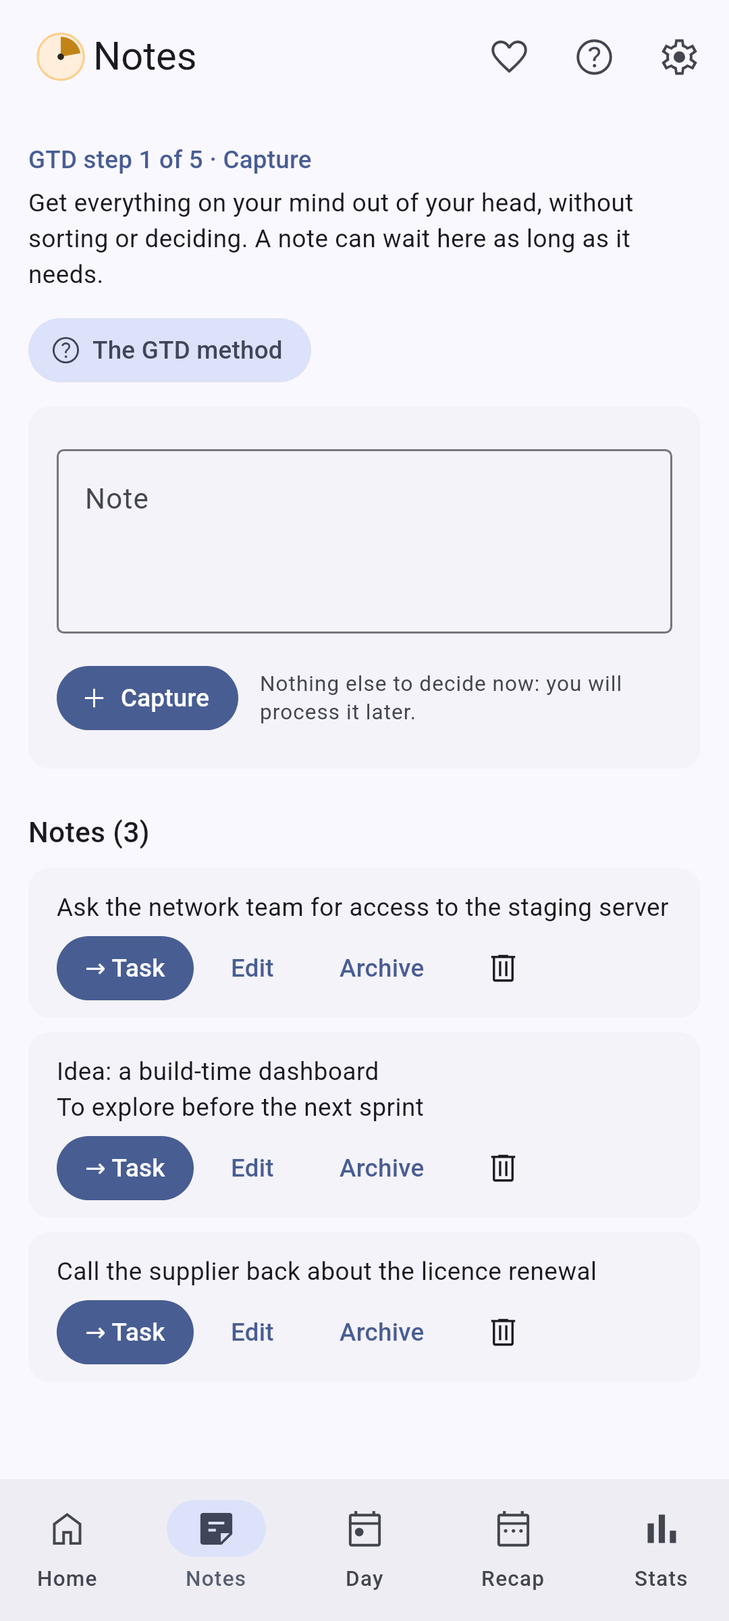
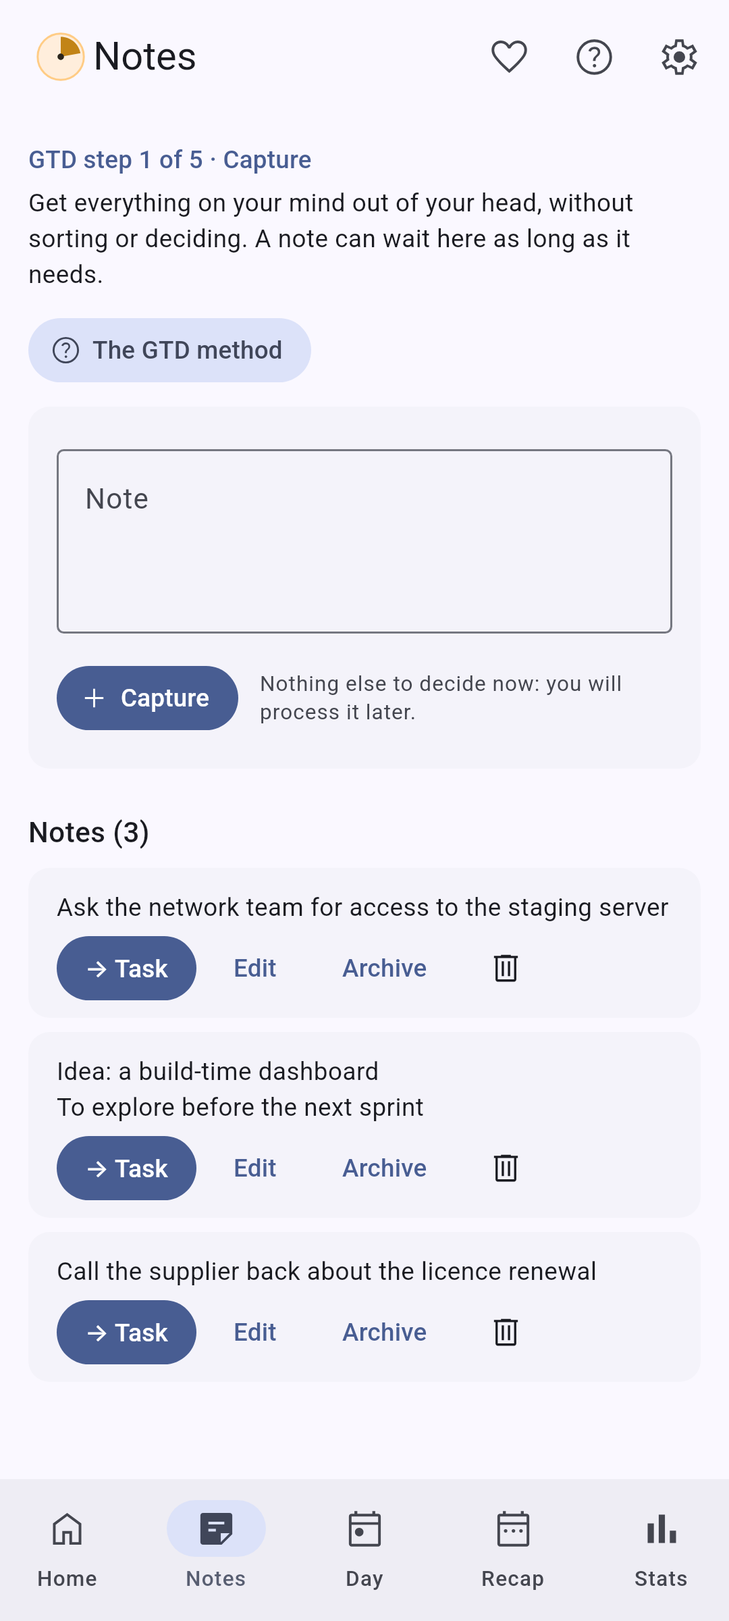
feat(store): store screenshots in six languages with public holidays [#264]
The store screenshots are now rendered in the six languages of the
listings, with the demo data translated, and gain an eleventh shot:
May 2026 for Germany, the United States and Italy, each grid in its own
language, under the title in the listing's language. That shot renders
at density 2.0 so the three month grids fit the phone height.

diff --git a/kmp/desktopApp/src/jvmMain/kotlin/com/skohscripts/kairos/desktop/StoreScreenshots.kt b/kmp/desktopApp/src/jvmMain/kotlin/com/skohscripts/kairos/desktop/StoreScreenshots.kt
@@ -27,6 +27,8 @@ import com.skohscripts.kairos.ui.app.AppServices
 import com.skohscripts.kairos.ui.app.ChronoNotifier
 import com.skohscripts.kairos.ui.app.FileService
 import com.skohscripts.kairos.ui.app.NotifyState
+import com.skohscripts.kairos.ui.month.HolidayShowcase
+import com.skohscripts.kairos.ui.theme.KairosTheme
 import com.skohscripts.kairos.ui.navigation.Destination
 import com.skohscripts.kairos.ui.navigation.Secondary
 import com.skohscripts.kairos.ui.navigation.TeamDestination
@@ -53,11 +55,11 @@ import kotlin.time.Instant
 /**
  * Captures des fiches de magasin (docs/spec/publication.md § Captures) :
  * `--store-screenshots=<dossier fastlane/metadata/android>` rend hors écran,
- * en français et en anglais, l'interface **Android** en largeur téléphone
+ * dans les six langues des fiches, l'interface **Android** en largeur téléphone
  * (1080 × 2400 px, densité 2,625) sur un jeu de données réaliste, et écrit
- * `<langue>/images/phoneScreenshots/1.png` à `10.png` (1 à 6 : espace Perso, base solo, dont la 2 : la fiche d'une tâche
+ * `<langue>/images/phoneScreenshots/1.png` à `11.png` (1 à 6 : espace Perso, base solo, dont la 2 : la fiche d'une tâche
  * estimée par machine learning ; 7 à 9 : espace Équipe, seconde base de [StoreTeam] ; 10 : la vue Jour en thème sombre,
- * issue #72). Thème du système imposé (clair, sombre pour la 10) : les captures ne dépendent pas de la machine. Rien de ce jeu n'est livré dans
+ * issue #72 ; 11 : les jours fériés de trois pays, [HolidayShowcase], issue #264). Thème du système imposé (clair, sombre pour la 10) : les captures ne dépendent pas de la machine. Rien de ce jeu n'est livré dans
  * l'application : c'est une vitrine, pas des exemples.
  */
 object StoreScreenshots {
@@ -78,7 +80,7 @@ object StoreScreenshots {
     fun run(metadataDir: File): Int = try {
         // Heure et fuseau figés : les captures ne dépendent ni du jour ni de la machine.
         java.util.TimeZone.setDefault(java.util.TimeZone.getTimeZone("UTC"))
-        for ((folder, locale) in listOf("fr-FR" to Locale.FRANCE, "en-US" to Locale.US)) {
+        for ((folder, locale) in LOCALES) {
             Locale.setDefault(locale)
             val out = File(metadataDir, "$folder/images/phoneScreenshots").apply { mkdirs() }
             var number = 0
@@ -105,6 +107,9 @@ object StoreScreenshots {
             // Capture 10 : la vue Jour de la capture 1, système en sombre, rien de réglé (docs/spec/apparence.md § Thème sombre).
             val darkServices = runBlocking { services(locale.language) }
             write(render { KairosApp(Platform.ANDROID, Destination.DAY, systemDark = true) { darkServices } })
+            // Capture 11 : les fériés de trois pays, chacun dans sa langue, titre dans celle de la fiche (issue #264). Densité
+            // 2,0 (540 × 1200 dp) : trois grilles de mois tiennent dans la hauteur, l'image garde 1080 × 2400 px.
+            write(render(density = 2.0f) { KairosTheme { HolidayShowcase(HOLIDAY_MONTH, HOLIDAY_COUNTRIES) } })
         }
         println("Captures des magasins écrites dans $metadataDir")
         0
@@ -140,7 +145,7 @@ object StoreScreenshots {
      */
     private fun machineLearningShot(language: String): ByteArray {
         val services = runBlocking { services(language, machineLearning = true) }
-        val title = (if (language == "fr") FR else EN).quarterly
+        val title = words(language).quarterly
         val id = services.repository.snapshot.value.tasks.first { it.title == title }.id
         return render(settle = true, wheel = SHEET_SCROLL) { KairosApp(Platform.ANDROID, Destination.DAY, systemDark = false, showcaseTaskId = id) { services } }
     }
@@ -171,7 +176,7 @@ object StoreScreenshots {
      * avec l'empreinte des données qui l'ont produite, elle ne s'affiche pas « périmée ».
      */
     private suspend fun teamServices(language: String, destination: TeamDestination): AppServices {
-        val services = StoreTeam.open(language == "en", today, now)
+        val services = StoreTeam.open(language, today, now)
         if (destination == TeamDestination.FORECAST) {
             services.teamUi.forecast = ForecastRun.computeNow(
                 services.repository.snapshot.value, now, TimeZone.UTC, ForecastSpec(ForecastScope.Assigned), StoreTeam.FORECAST_SEED,
@@ -181,8 +186,8 @@ object StoreScreenshots {
     }
 
     @OptIn(androidx.compose.ui.ExperimentalComposeUiApi::class)
-    private fun render(settle: Boolean = false, wheel: Float = 0f, content: @Composable () -> Unit): ByteArray {
-        val scene = ImageComposeScene(WIDTH, HEIGHT, Density(2.625f), content = content)
+    private fun render(settle: Boolean = false, wheel: Float = 0f, density: Float = 2.625f, content: @Composable () -> Unit): ByteArray {
+        val scene = ImageComposeScene(WIDTH, HEIGHT, Density(density), content = content)
         try {
             var image = scene.render(0)
             for (frame in 1..12) image = scene.render(frame * 100_000_000L)
@@ -222,6 +227,25 @@ object StoreScreenshots {
 
     /** Défilement (en crans de molette) de la capture de la page « histoire » : la liste ordonnée sous la carte « maintenant ». */
     private const val STORY_SCROLL = 21f
+
+    /** Les six langues des fiches (dossier Fastlane, langue de l'interface), dans l'ordre d'écriture. */
+    private val LOCALES = listOf(
+        "fr-FR" to Locale.FRANCE, "en-US" to Locale.US, "de-DE" to Locale.GERMANY,
+        "es-ES" to Locale.forLanguageTag("es-ES"), "it-IT" to Locale.ITALY, "ru-RU" to Locale.forLanguageTag("ru-RU"),
+    )
+
+    /** Capture 11 : mai 2026, où l'Allemagne (1er, Ascension, Pentecôte), les États-Unis (Memorial Day) et l'Italie (1er) diffèrent. */
+    private val HOLIDAY_MONTH = LocalDate(2026, 5, 1)
+    private val HOLIDAY_COUNTRIES = listOf("DE" to "de", "US" to "en", "IT" to "it")
+
+    private fun words(language: String): Words = when (language) {
+        "fr" -> FR
+        "de" -> DE
+        "es" -> ES
+        "it" -> IT
+        "ru" -> RU
+        else -> EN
+    }
 
     /** Textes du jeu de données, par langue. */
     private class Words(
@@ -287,8 +311,123 @@ object StoreScreenshots {
         quarterly = "Write the quarterly activity report",
     )
 
+
+    private fun typed(types: String) = types.split(',')
+
+    private val DE = typed(Settings.DEFAULT_TASK_TYPES_DE).let { t ->
+        Words(
+            types = Settings.DEFAULT_TASK_TYPES_DE,
+            dev = t[0], review = t[1], meeting = t[2], doc = t[3], admin = t[4],
+            leak = "Speicherleck im Dashboard beheben", demo = "Kundendemo vorbereiten",
+            mr = "Merge-Request des Zahlungsmoduls prüfen", standup = "Team-Stand-up",
+            install = "Installationsanleitung aktualisieren", survey = "Sicherheitsfragebogen beantworten",
+            deploy = "Version 2.4 ausrollen", report = "Protokoll des Lenkungsausschusses versenden",
+            project = "Atlas", focus = "Deep Work", lunch = "Mittagessen", sync = "Abstimmungstermin",
+            notes = listOf(
+                "Netzwerkteam um Zugriff auf den Staging-Server bitten",
+                "Idee: ein Dashboard der Build-Zeiten\nVor dem nächsten Sprint prüfen",
+                "Lieferanten wegen der Lizenzverlängerung zurückrufen",
+            ),
+            history = listOf(
+                "Fehlerprotokolle analysieren", "Abhängigkeiten aktualisieren", "Tests für das Exportmodul schreiben",
+                "Architektur-Review", "Retrospektive vorbereiten", "Backlog aufräumen", "Mobile Darstellung korrigieren",
+                "Release Notes schreiben", "Monitoring einrichten", "Neue Kollegin einarbeiten",
+            ),
+            reports = listOf(
+                "Tätigkeitsbericht für Mai schreiben", "Tätigkeitsbericht für Juni schreiben", "Tätigkeitsbericht für Juli schreiben",
+                "Tätigkeitsbericht für August schreiben", "Tätigkeitsbericht für September schreiben", "Bericht zum Zugriffsaudit schreiben",
+                "Bericht zu den Lasttests schreiben", "Bericht zum Produktionsvorfall schreiben",
+            ),
+            quarterly = "Tätigkeitsbericht für das Quartal schreiben",
+        )
+    }
+
+    private val ES = typed(Settings.DEFAULT_TASK_TYPES_ES).let { t ->
+        Words(
+            types = Settings.DEFAULT_TASK_TYPES_ES,
+            dev = t[0], review = t[1], meeting = t[2], doc = t[3], admin = t[4],
+            leak = "Corregir la fuga de memoria del panel", demo = "Preparar la demo para el cliente",
+            mr = "Revisar la merge request del módulo de pagos", standup = "Reunión diaria del equipo",
+            install = "Actualizar la guía de instalación", survey = "Responder al cuestionario de seguridad",
+            deploy = "Desplegar la versión 2.4", report = "Enviar el acta del comité de dirección",
+            project = "Atlas", focus = "Deep work", lunch = "Comida", sync = "Reunión de seguimiento",
+            notes = listOf(
+                "Pedir al equipo de redes acceso al servidor de preproducción",
+                "Idea: un panel de tiempos de compilación\nA estudiar antes del próximo sprint",
+                "Llamar al proveedor por la renovación de licencias",
+            ),
+            history = listOf(
+                "Analizar los registros de errores", "Actualizar las dependencias", "Escribir las pruebas del módulo de exportación",
+                "Revisión de la arquitectura", "Preparar la retrospectiva", "Limpiar el backlog", "Corregir la vista móvil",
+                "Redactar las notas de la versión", "Configurar la monitorización", "Formar a la nueva incorporación",
+            ),
+            reports = listOf(
+                "Redactar el informe de actividad de mayo", "Redactar el informe de actividad de junio", "Redactar el informe de actividad de julio",
+                "Redactar el informe de actividad de agosto", "Redactar el informe de actividad de septiembre", "Redactar el informe de auditoría de accesos",
+                "Redactar el informe de pruebas de carga", "Redactar el informe del incidente en producción",
+            ),
+            quarterly = "Redactar el informe de actividad del trimestre",
+        )
+    }
+
+    private val IT = typed(Settings.DEFAULT_TASK_TYPES_IT).let { t ->
+        Words(
+            types = Settings.DEFAULT_TASK_TYPES_IT,
+            dev = t[0], review = t[1], meeting = t[2], doc = t[3], admin = t[4],
+            leak = "Correggere la perdita di memoria della dashboard", demo = "Preparare la demo per il cliente",
+            mr = "Rivedere la merge request del modulo pagamenti", standup = "Stand-up del team",
+            install = "Aggiornare la guida di installazione", survey = "Rispondere al questionario di sicurezza",
+            deploy = "Rilasciare la versione 2.4", report = "Inviare il verbale del comitato direttivo",
+            project = "Atlas", focus = "Deep work", lunch = "Pranzo", sync = "Riunione di avanzamento",
+            notes = listOf(
+                "Chiedere al team di rete l’accesso al server di preproduzione",
+                "Idea: una dashboard dei tempi di build\nDa approfondire prima del prossimo sprint",
+                "Richiamare il fornitore per il rinnovo delle licenze",
+            ),
+            history = listOf(
+                "Analizzare i log degli errori", "Aggiornare le dipendenze", "Scrivere i test del modulo di esportazione",
+                "Revisione dell’architettura", "Preparare la retrospettiva", "Ripulire il backlog", "Correggere la vista mobile",
+                "Scrivere le note di rilascio", "Configurare il monitoraggio", "Formare il nuovo arrivato",
+            ),
+            reports = listOf(
+                "Scrivere il rapporto di attività di maggio", "Scrivere il rapporto di attività di giugno", "Scrivere il rapporto di attività di luglio",
+                "Scrivere il rapporto di attività di agosto", "Scrivere il rapporto di attività di settembre", "Scrivere il rapporto di audit degli accessi",
+                "Scrivere il rapporto dei test di carico", "Scrivere il rapporto sull’incidente in produzione",
+            ),
+            quarterly = "Scrivere il rapporto di attività del trimestre",
+        )
+    }
+
+    private val RU = typed(Settings.DEFAULT_TASK_TYPES_RU).let { t ->
+        Words(
+            types = Settings.DEFAULT_TASK_TYPES_RU,
+            dev = t[0], review = t[1], meeting = t[2], doc = t[3], admin = t[4],
+            leak = "Исправить утечку памяти в дашборде", demo = "Подготовить демо для клиента",
+            mr = "Проверить merge request модуля платежей", standup = "Стендап команды",
+            install = "Обновить руководство по установке", survey = "Ответить на анкету по безопасности",
+            deploy = "Развернуть версию 2.4", report = "Отправить протокол управляющего комитета",
+            project = "Atlas", focus = "Deep work", lunch = "Обед", sync = "Встреча по статусу",
+            notes = listOf(
+                "Попросить сетевую команду о доступе к тестовому серверу",
+                "Идея: дашборд времени сборки\nИзучить до следующего спринта",
+                "Перезвонить поставщику насчёт продления лицензий",
+            ),
+            history = listOf(
+                "Проанализировать журналы ошибок", "Обновить зависимости", "Написать тесты модуля экспорта",
+                "Ревью архитектуры", "Подготовить ретроспективу", "Почистить бэклог", "Исправить мобильную вёрстку",
+                "Написать примечания к выпуску", "Настроить мониторинг", "Ввести в курс нового сотрудника",
+            ),
+            reports = listOf(
+                "Написать отчёт о работе за май", "Написать отчёт о работе за июнь", "Написать отчёт о работе за июль",
+                "Написать отчёт о работе за август", "Написать отчёт о работе за сентябрь", "Написать отчёт об аудите доступа",
+                "Написать отчёт о нагрузочном тестировании", "Написать отчёт об инциденте в продакшене",
+            ),
+            quarterly = "Написать отчёт о работе за квартал",
+        )
+    }
+
     private fun snapshot(language: String, machineLearning: Boolean = false): KairosSnapshot {
-        val w = if (language == "fr") FR else EN
+        val w = words(language)
         fun at(day: LocalDate, h: Int, m: Int = 0) = LocalDateTime(day, LocalTime(h, m))
         fun instant(day: LocalDate, h: Int, m: Int = 0) = at(day, h, m).toInstant(TimeZone.UTC)
         val created = instant(today.minus(DatePeriod(days = 3)), 9)

diff --git a/kmp/desktopApp/src/jvmMain/kotlin/com/skohscripts/kairos/desktop/StoreTeam.kt b/kmp/desktopApp/src/jvmMain/kotlin/com/skohscripts/kairos/desktop/StoreTeam.kt
@@ -43,10 +43,58 @@ internal object StoreTeam {
         override fun now(): Instant = current
     }
 
-    /** Titres dans la langue de la capture. */
-    private class Words(val english: Boolean) {
-        fun t(fr: String, en: String) = if (english) en else fr
+    /**
+     * Titres dans la langue de la capture : le français et l'anglais à l'appel, l'allemand, l'espagnol, l'italien et le russe
+     * dans [OTHER], par le texte français. Un titre sans traduction fait échouer la génération plutôt que d'en mêler deux.
+     */
+    private class Words(val language: String) {
+        fun t(fr: String, en: String): String = when (language) {
+            "fr" -> fr
+            "en" -> en
+            else -> OTHER[fr]?.get(OTHER_LANGUAGES.indexOf(language)) ?: error("store: no $language title for « $fr »")
+        }
     }
+
+    private val OTHER_LANGUAGES = listOf("de", "es", "it", "ru")
+
+    /** Textes français → allemand, espagnol, italien, russe (même ordre que [OTHER_LANGUAGES]). */
+    private val OTHER: Map<String, List<String>> = mapOf(
+        "Équipe Plateforme" to listOf("Plattform-Team", "Equipo Plataforma", "Team Piattaforma", "Команда платформы"),
+        "Lead technique" to listOf("Tech Lead", "Líder técnica", "Tech lead", "Техлид"),
+        "Développeur back-end" to listOf("Backend-Entwickler", "Desarrollador back-end", "Sviluppatore back-end", "Бэкенд-разработчик"),
+        "Congés" to listOf("Urlaub", "Vacaciones", "Ferie", "Отпуск"),
+        "Valider le budget du T4" to listOf("Budget für Q4 freigeben", "Aprobar el presupuesto del T4", "Approvare il budget del Q4", "Утвердить бюджет на 4-й квартал"),
+        "Analyser les journaux d’erreur" to listOf("Fehlerprotokolle analysieren", "Analizar los registros de errores", "Analizzare i log degli errori", "Проанализировать журналы ошибок"),
+        "Mettre à jour les dépendances" to listOf("Abhängigkeiten aktualisieren", "Actualizar las dependencias", "Aggiornare le dipendenze", "Обновить зависимости"),
+        "Revue de code du module de paiement" to listOf("Code-Review des Zahlungsmoduls", "Revisión del módulo de pagos", "Revisione del modulo pagamenti", "Ревью модуля платежей"),
+        "Préparer la rétrospective" to listOf("Retrospektive vorbereiten", "Preparar la retrospectiva", "Preparare la retrospettiva", "Подготовить ретроспективу"),
+        "Maquettes de l’écran de connexion" to listOf("Mock-ups des Anmeldebildschirms", "Maquetas de la pantalla de acceso", "Mockup della schermata di accesso", "Макеты экрана входа"),
+        "Écrire les tests du module d’export" to listOf("Tests für das Exportmodul schreiben", "Escribir las pruebas del módulo de exportación", "Scrivere i test del modulo di esportazione", "Написать тесты модуля экспорта"),
+        "Rédiger la note de version" to listOf("Release Notes schreiben", "Redactar las notas de la versión", "Scrivere le note di rilascio", "Написать примечания к выпуску"),
+        "Corriger l’affichage mobile" to listOf("Mobile Darstellung korrigieren", "Corregir la vista móvil", "Correggere la vista mobile", "Исправить мобильную вёрстку"),
+        "Former la nouvelle recrue" to listOf("Neue Kollegin einarbeiten", "Formar a la nueva incorporación", "Formare il nuovo arrivato", "Ввести в курс нового сотрудника"),
+        "Revue de l’architecture" to listOf("Architektur-Review", "Revisión de la arquitectura", "Revisione dell’architettura", "Ревью архитектуры"),
+        "Préparer le comité de pilotage" to listOf("Lenkungsausschuss vorbereiten", "Preparar el comité de dirección", "Preparare il comitato direttivo", "Подготовить управляющий комитет"),
+        "Automatiser le déploiement" to listOf("Deployment automatisieren", "Automatizar el despliegue", "Automatizzare il rilascio", "Автоматизировать развёртывание"),
+        "Mettre à jour le guide d’installation" to listOf("Installationsanleitung aktualisieren", "Actualizar la guía de instalación", "Aggiornare la guida di installazione", "Обновить руководство по установке"),
+        "Configurer la supervision" to listOf("Monitoring einrichten", "Configurar la monitorización", "Configurare il monitoraggio", "Настроить мониторинг"),
+        "Documenter l’API de recherche" to listOf("Such-API dokumentieren", "Documentar la API de búsqueda", "Documentare l’API di ricerca", "Задокументировать API поиска"),
+        "Nettoyer la configuration CI" to listOf("CI-Konfiguration aufräumen", "Limpiar la configuración de CI", "Ripulire la configurazione CI", "Почистить конфигурацию CI"),
+        "Revue de code du module d’import" to listOf("Code-Review des Importmoduls", "Revisión del módulo de importación", "Revisione del modulo di importazione", "Ревью модуля импорта"),
+        "Migrer les tests vers JUnit 5" to listOf("Tests auf JUnit 5 migrieren", "Migrar las pruebas a JUnit 5", "Migrare i test a JUnit 5", "Перевести тесты на JUnit 5"),
+        "Documenter les points d’accès publics" to listOf("Öffentliche Endpunkte dokumentieren", "Documentar los endpoints públicos", "Documentare gli endpoint pubblici", "Задокументировать публичные эндпоинты"),
+        "Préparer la démo client" to listOf("Kundendemo vorbereiten", "Preparar la demo para el cliente", "Preparare la demo per il cliente", "Подготовить демо для клиента"),
+        "Audit de sécurité des dépendances" to listOf("Sicherheitsaudit der Abhängigkeiten", "Auditoría de seguridad de las dependencias", "Audit di sicurezza delle dipendenze", "Аудит безопасности зависимостей"),
+        "Refonte de l’API de facturation" to listOf("Abrechnungs-API überarbeiten", "Rediseño de la API de facturación", "Revisione dell’API di fatturazione", "Переработка API биллинга"),
+        "Migration de la base vers SQLite" to listOf("Datenbank auf SQLite migrieren", "Migración de la base de datos a SQLite", "Migrazione del database a SQLite", "Миграция базы на SQLite"),
+        "Corriger l’erreur de pagination" to listOf("Paginierungsfehler beheben", "Corregir el error de paginación", "Correggere l’errore di paginazione", "Исправить ошибку пагинации"),
+        "Revue du plan de charge" to listOf("Auslastungsplan prüfen", "Revisión del plan de carga", "Revisione del piano di carico", "Ревью плана загрузки"),
+        "Répondre à l’appel d’offres" to listOf("Ausschreibung beantworten", "Responder a la licitación", "Rispondere al bando di gara", "Ответить на тендер"),
+        "Revue de code du module d’export" to listOf("Code-Review des Exportmoduls", "Revisión del módulo de exportación", "Revisione del modulo di esportazione", "Ревью модуля экспорта"),
+        "Corriger le calcul de la TVA" to listOf("MwSt.-Berechnung korrigieren", "Corregir el cálculo del IVA", "Correggere il calcolo dell’IVA", "Исправить расчёт НДС"),
+        "Maquettes de l’écran d’export" to listOf("Mock-ups des Exportbildschirms", "Maquetas de la pantalla de exportación", "Mockup della schermata di esportazione", "Макеты экрана экспорта"),
+        "Atelier utilisateurs" to listOf("Nutzer-Workshop", "Taller con usuarios", "Workshop con gli utenti", "Воркшоп с пользователями"),
+    )
 
     /** Une tâche faite : [who] 0 = Claire, 1 = Alex, 2 = Sam ; [type] indexe les types de la langue. */
     private class Past(val fr: String, val en: String, val type: Int, val who: Int, val workdaysAgo: Int, val estimate: Double, val spent: Double)
@@ -74,8 +122,8 @@ internal object StoreTeam {
         Past("Revue de code du module d’import", "Review the import module", 1, 0, 38, 5.0, 5.5),
     )
 
-    suspend fun open(english: Boolean, today: LocalDate, now: Instant): AppServices {
-        val w = Words(english)
+    suspend fun open(language: String, today: LocalDate, now: Instant): AppServices {
+        val w = Words(language)
         val zone = TimeZone.UTC
         val clock = SteppingClock(now)
 
@@ -96,7 +144,7 @@ internal object StoreTeam {
             clock.current = at(workday(n), hour)
         }
 
-        val types = (if (english) Settings.DEFAULT_TASK_TYPES_EN else Settings.DEFAULT_TASK_TYPES_FR).split(',')
+        val types = Settings.defaultTaskTypes(language).split(',')
         val repository = KairosRepository.open(
             KairosStore.open(JdbcSqliteDriver(JdbcSqliteDriver.IN_MEMORY)),
             examples = { KairosSnapshot(settings = Settings(taskTypes = types.joinToString(","))) },

diff --git a/kmp/ui/src/commonMain/kotlin/com/skohscripts/kairos/ui/month/HolidayShowcase.kt b/kmp/ui/src/commonMain/kotlin/com/skohscripts/kairos/ui/month/HolidayShowcase.kt
@@ -1,0 +1,55 @@
+package com.skohscripts.kairos.ui.month
+
+import androidx.compose.foundation.layout.Arrangement
+import androidx.compose.foundation.layout.Column
+import androidx.compose.foundation.layout.fillMaxSize
+import androidx.compose.foundation.layout.padding
+import androidx.compose.material3.MaterialTheme
+import androidx.compose.material3.Surface
+import androidx.compose.material3.Text
+import androidx.compose.runtime.Composable
+import androidx.compose.ui.Modifier
+import androidx.compose.ui.semantics.heading
+import androidx.compose.ui.semantics.semantics
+import com.skohscripts.kairos.core.model.KairosSnapshot
+import com.skohscripts.kairos.core.model.Settings
+import com.skohscripts.kairos.core.month.MonthView
+import com.skohscripts.kairos.ui.day.Dates
+import com.skohscripts.kairos.ui.generated.resources.Res
+import com.skohscripts.kairos.ui.generated.resources.card_holiday_countries_title
+import com.skohscripts.kairos.ui.settings.holidayCountryName
+import com.skohscripts.kairos.ui.theme.KairosSpacing
+import kotlinx.datetime.LocalDate
+import org.jetbrains.compose.resources.stringResource
+
+/**
+ * Capture des fiches des magasins sur les jours fériés par pays (docs/spec/publication.md § Captures, docs/spec/jours-feries.md) :
+ * le titre « Les jours fériés de ton pays » dans la langue de la fiche, puis la grille du même [month] pour chaque pays de
+ * [countries] (code ISO, langue de la grille), ses fériés marqués comme dans la vue Mois. Une base vide par pays : seuls les
+ * fériés y figurent. Rendue par l'outil des captures (`StoreScreenshots`), jamais par l'application.
+ */
+@Composable
+fun HolidayShowcase(month: LocalDate, countries: List<Pair<String, String>>) {
+    Surface(Modifier.fillMaxSize(), color = MaterialTheme.colorScheme.surface) {
+        Column(Modifier.padding(KairosSpacing.l), verticalArrangement = Arrangement.spacedBy(KairosSpacing.m)) {
+            Text(
+                stringResource(Res.string.card_holiday_countries_title),
+                style = MaterialTheme.typography.headlineSmall,
+                modifier = Modifier.semantics { heading() },
+            )
+            countries.forEach { (code, language) ->
+                val view = MonthView.build(KairosSnapshot(settings = Settings(holidayCountry = code, holidaysFr = false)), month)
+                Column(verticalArrangement = Arrangement.spacedBy(KairosSpacing.s)) {
+                    Text(
+                        stringResource(holidayCountryName(code)) + " · " + Dates.monthYear(view.first, language),
+                        style = MaterialTheme.typography.titleMedium,
+                    )
+                    // Aujourd'hui hors du mois : aucune case en surbrillance.
+                    MonthGrid(view, view.first.minusOneYear(), language) {}
+                }
+            }
+        }
+    }
+}
+
+private fun LocalDate.minusOneYear() = LocalDate(year - 1, month, day)

diff --git a/kmp/ui/src/commonMain/kotlin/com/skohscripts/kairos/ui/month/MonthScreen.kt b/kmp/ui/src/commonMain/kotlin/com/skohscripts/kairos/ui/month/MonthScreen.kt
@@ -126,7 +126,7 @@ fun MonthScreen(services: AppServices, nav: NavState, onOpenDay: (LocalDate) -> 
 
 /** En-tête des jours de la semaine, puis une ligne par semaine ; sept colonnes égales, de 46 dp à 360 dp. */
 @Composable
-private fun MonthGrid(month: MonthView, today: LocalDate, language: String, onOpenDay: (LocalDate) -> Unit) {
+internal fun MonthGrid(month: MonthView, today: LocalDate, language: String, onOpenDay: (LocalDate) -> Unit) {
     Column(verticalArrangement = Arrangement.spacedBy(4.dp)) {
         // L'en-tête est décoratif pour le lecteur d'écran : chaque case dit déjà son jour en entier.
         Row(horizontalArrangement = Arrangement.spacedBy(4.dp), modifier = Modifier.clearAndSetSemantics { }) {
